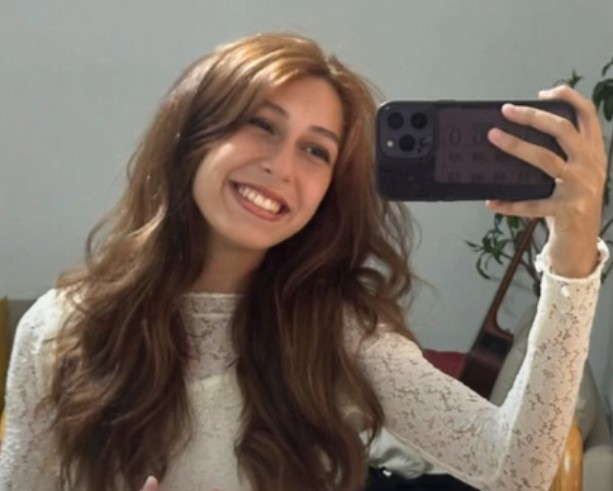
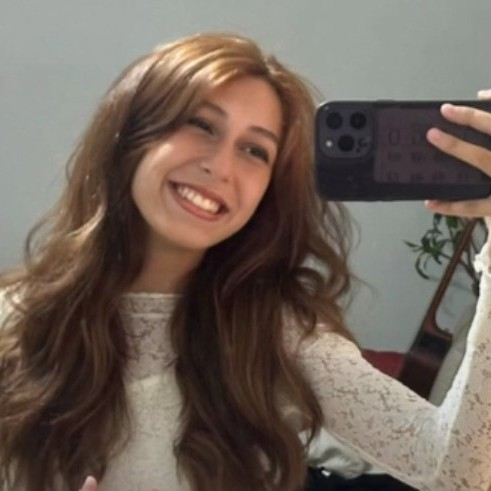
commit

diff --git a/presenteCristal.html b/presenteCristal.html
@@ -5,8 +5,30 @@
     <meta name="viewport" content="width=device-width, initial-scale=1.0">
     <title>Parabens Cristal!</title>
     <link rel="stylesheet" href="presenteCristal.css">
-</head>
+    <link rel="preconnect" href="https://fonts.googleapis.com">
+    <link rel="preconnect" href="https://fonts.gstatic.com" crossorigin>
+    <link href="https://fonts.googleapis.com/css2?family=Coiny&display=swap" rel="stylesheet">
+    <link rel="preconnect" href="https://fonts.googleapis.com">
+    <link rel="preconnect" href="https://fonts.gstatic.com" crossorigin>
+    <link href="https://fonts.googleapis.com/css2?family=Cause:wght@100..900&display=swap" rel="stylesheet">
+    </head>
 <body>
-    <h1>Feliz aniversário <br> Cristal!</h1>
+    <div class="fundo">
+        <div class="container">
+            <img class="gatinho" src="imagens/gato1.png">
+            <h1>Feliz Aniversário <br> Cristal</h1>
+            <img class="gatinho" src="imagens/gato2.png">
+        </div>
+       <h2>Espero que esse novo ciclo seja repleto de boas energias, momentos felizes e muitas realizações. 
+        <br>Que você continue espalhando essa luz e carinho que fazem tão bem para quem está por perto. Tenho muito carinho por você e fico feliz por ter te conhecido. 
+        <br>Que nunca faltem motivos para sorrir, muitos animaizinhos para cuidar e um universo inteiro conspirando a seu favor. 
+        <br>Aproveita muito o seu dia!</h2>
+        <div class="imagens">
+            <img class="foto-redonda" src="imagens/img1.jpeg">
+            <img class="foto-redonda" src="imagens/img2.jpeg">
+            <img class="foto-redonda" src="imagens/img3.jpeg">
+        </div>
+        <img class="presente" src="imagens/presenter.png">
+    </div>
 </body>
 </html>

diff --git a/presenteCristal.css b/presenteCristal.css
@@ -1,0 +1,79 @@
+* {
+    box-sizing: border-box;
+}
+body {
+    background-color: rgb(79, 150, 181);
+    margin: 0;
+}
+.fundo {
+    background-color: rgba(255, 255, 255, 0.354);
+    margin: 50px;
+    padding: 20px;
+    border-radius: 30px;
+}
+.container {
+    justify-content: space-between;
+    align-items: center;
+    display: flex;
+    flex-wrap: nowrap;
+    gap: 10px;
+}
+.gatinho {
+    width: 200px;
+    max-width: 28vw;
+    height: auto;
+    flex-shrink: 0;
+}
+h1 {
+font-family: "Coiny", system-ui;
+  font-weight: 400;
+  font-style: normal;
+  text-align: center;
+  font-size: clamp(16px, 5vw, 30px);
+  color: antiquewhite;
+  margin: 0;
+  flex: 1;
+}
+h2 {
+    font-family: "Cause", cursive;
+  font-optical-sizing: auto;
+  font-weight: 700;
+  font-style: normal;
+  text-align: center;
+  padding-left: 20px;
+  padding-right: 20px;
+  font-size: clamp(20px, 2.5vw, 25px);
+  color: antiquewhite;
+}
+.imagens {
+    justify-content: space-between;
+    display: flex;
+    flex-wrap: wrap;
+    gap: 15px;
+}
+.foto-redonda {
+    display: block;
+    margin: auto;
+    width: 400px;
+    max-width: 60vw;
+    height: auto;
+    border-radius: 100%;
+    flex: 1 1 250px;
+}
+.presente {
+    width: 600px;
+    max-width: 90vw;
+    display: block;
+    margin: 20px auto 0;
+    height: auto;
+}
+
+@media (max-width: 768px) {
+    .fundo {
+        margin: 15px;
+        padding: 15px;
+    }
+    .container {
+        gap: 5px;
+    }
+}
